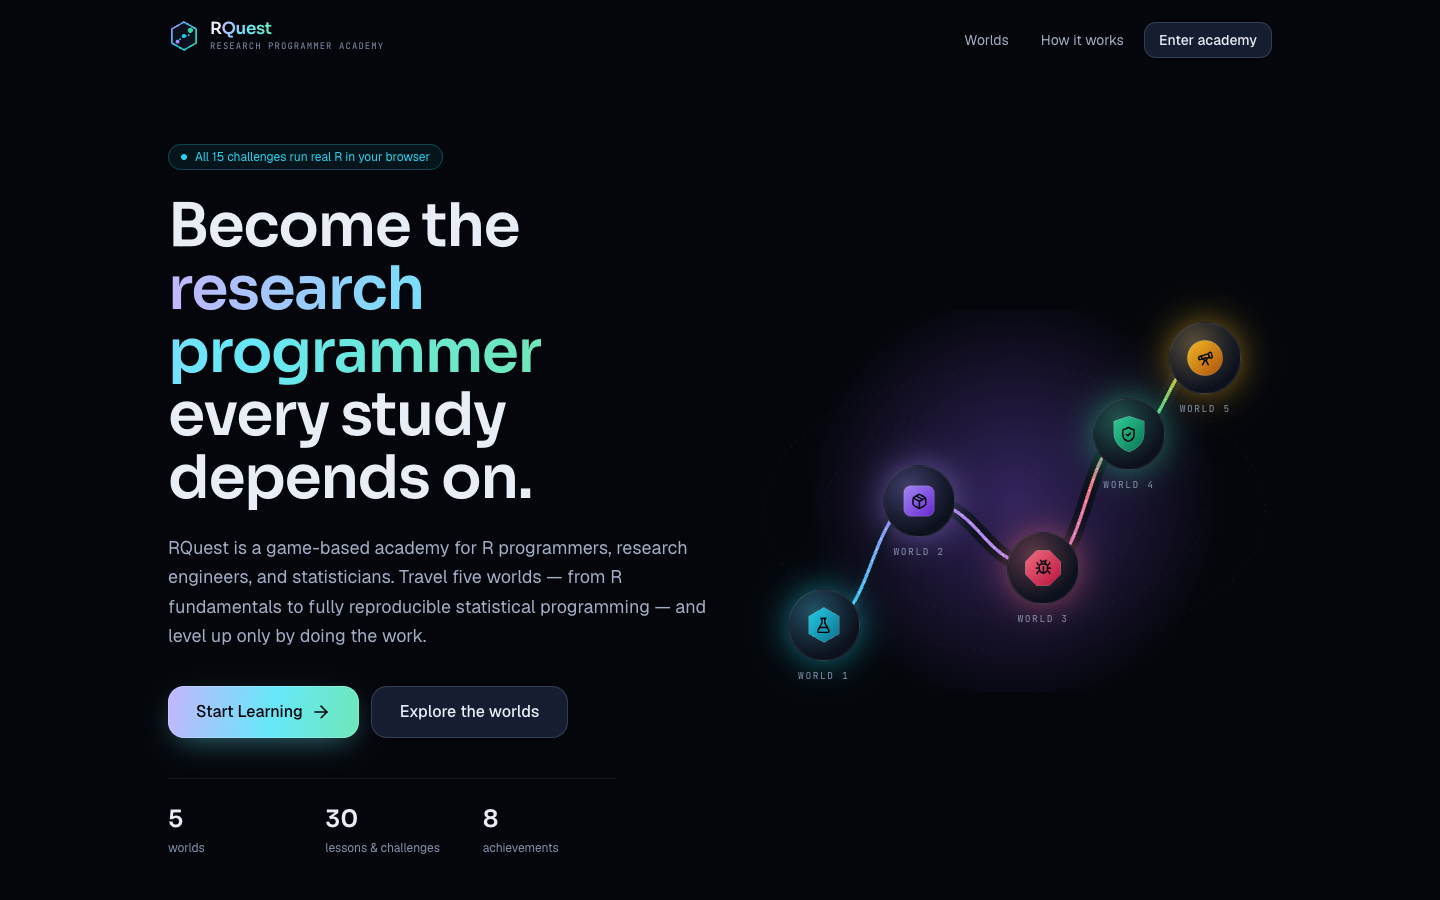
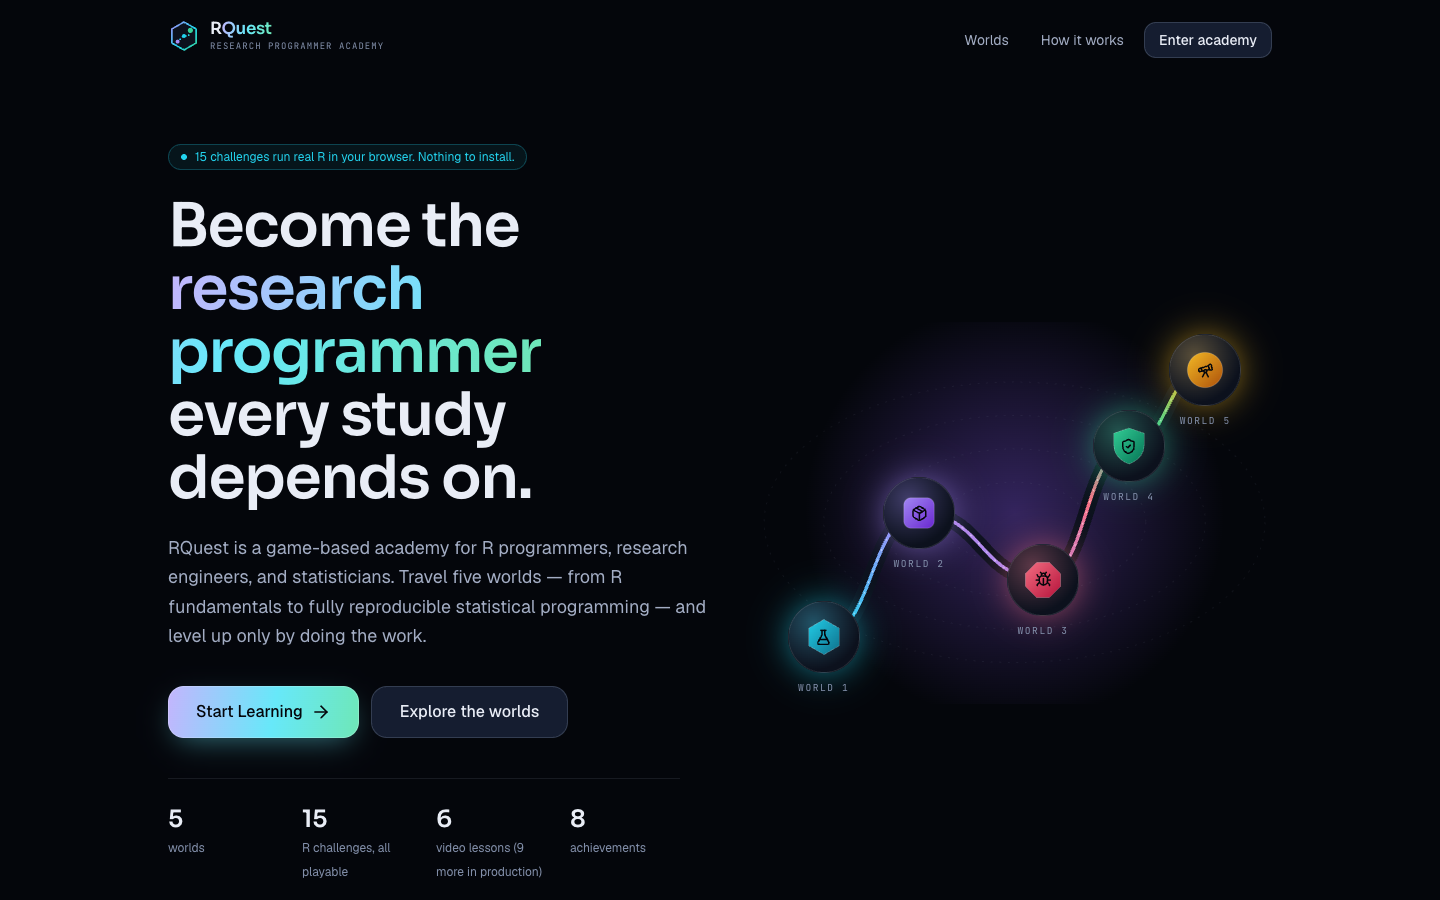
world 2 and cross-browser e2e

Changed region(s): [[0.5312, 0.3422, 0.875, 0.7778], [0.2188, 0.9022, 0.4375, 0.9956], [0.125, 0.1556, 0.375, 0.1867]]

diff --git a/README.md b/README.md
@@ -7,10 +7,10 @@ Independent portfolio project. Not affiliated with or endorsed by any institutio
 
 **Live:** https://parammadan.github.io/rquest/ (GitHub Pages, static export, deployed by `.github/workflows/pages.yml`)
 
-**Status: Phase 3A.** All 15 challenges across the five worlds run real R in the browser (webR) and are
-validated automatically. World 1 has its instructional video and three full lessons (video, written
-walkthrough, live R examples, and a knowledge check). Worlds 2–5 lessons are honest placeholders until
-their videos are produced. XP comes only from those validations. Lessons (video plus a comprehension
+**Status: Phase 3B.** All 15 challenges across the five worlds run real R in the browser (webR) and are
+validated automatically. Worlds 1 and 2 have their instructional videos and three full lessons each: video,
+written walkthrough, live R examples, diagrams, and a knowledge check with feedback on wrong answers.
+Worlds 3–5 lessons are honest placeholders until their videos are produced. XP comes only from those validations. Lessons (video plus a comprehension
 check) are Phase 3. A world unlocks once the
 previous world is *cleared*, meaning all its challenges and its boss are validated; lessons add bonus XP
 and count toward full mastery.
@@ -25,6 +25,8 @@ pnpm verify              # typecheck + lint + unit tests + production build
 pnpm build:pages                       # static export to out/ (base path /rquest, as on GitHub Pages)
 pnpm test:e2e                          # site-wide browser checks against out/ (system Chrome via playwright-core)
 pnpm test:e2e:lessons                  # lesson experience: video, captions, transcript, live R, completion rules
+pnpm test:e2e:world2                   # Package Factory: diagrams, evolving walkthroughs, feedback, assembly, boss briefing
+pnpm test:browsers                     # Chrome, Firefox, WebKit: webR, validation, persistence, video, captions, layout
 pnpm test:e2e:challenges               # all 15 challenges through the real UI with webR (needs network)
 pnpm test:validators                   # every reference solution passes; every starter fails
 SITE_URL=https://parammadan.github.io/rquest pnpm test:e2e   # any suite, against production
